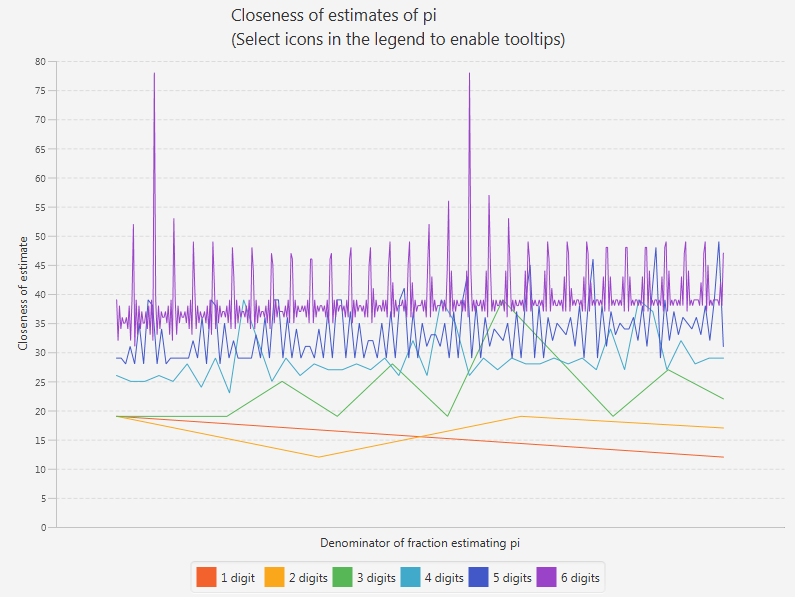
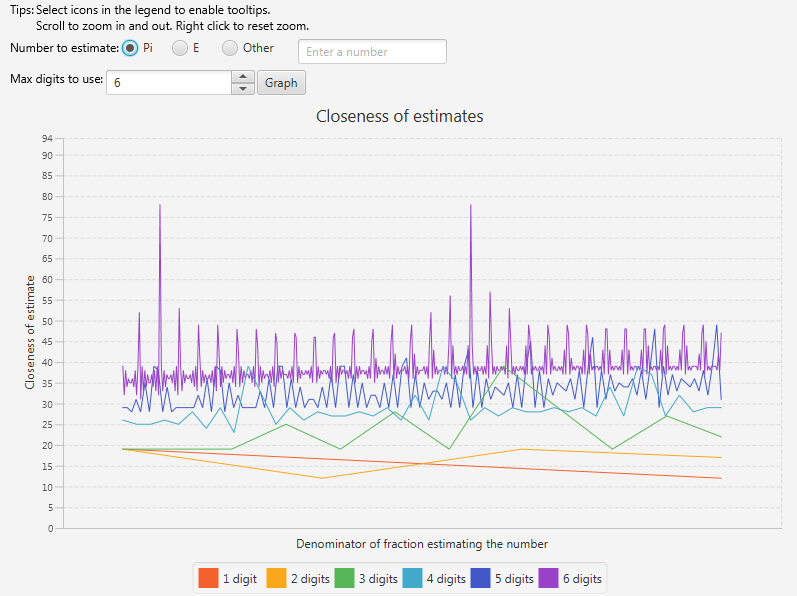
Estimate: new screenshots, readme

diff --git a/README.md b/README.md
@@ -65,8 +65,6 @@ example:
 The 'closeness' measure shows how many digits of that estimate are correct, and how close the first wrong digit is to being correct.
 Negative values are underestimates of the number, and positive values are overestimates.
 
-Screenshots of an older version:
-
 ![Pi estimator preview 1](https://github.com/uncleankiwi/javafx-and-fun-things/blob/master/previews/PiEstimator1.PNG)
 
 ![Pi estimator preview 2](https://github.com/uncleankiwi/javafx-and-fun-things/blob/master/previews/PiEstimator2.PNG)
